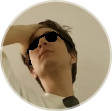
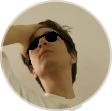
-Added BIG and small backgrounds -Fixed profile picture transparency

Changed region(s): [[0.5357, 0.8378, 0.75, 1.0]]

diff --git a/style.css b/style.css
@@ -12,9 +12,9 @@ body {
   background-size: cover;
   */
   background-image: var(--bg-url);
-  background-repeat: no-repeat;
+  background-repeat: repeat;
   background-position: top center;
-  background-size: cover;
+  background-size: auto;
 }
 
 /* cores*/
@@ -63,6 +63,7 @@ body * {
 
 #profile img {
   width: 112px;
+  border-radius: 50%;
 }
 
 #profile p {
@@ -162,4 +163,13 @@ footer {
 .light #switch button {
   right: 0;
   left: initial;
+}
+
+@media (min-width: 700px) {
+  :root {
+    --bg-url: url(./linktreeassets/fundo-grande.png);
+  }
+  .light {
+    --bg-url: url(./linktreeassets/bg-dark-grande.png);
+  }
 }
